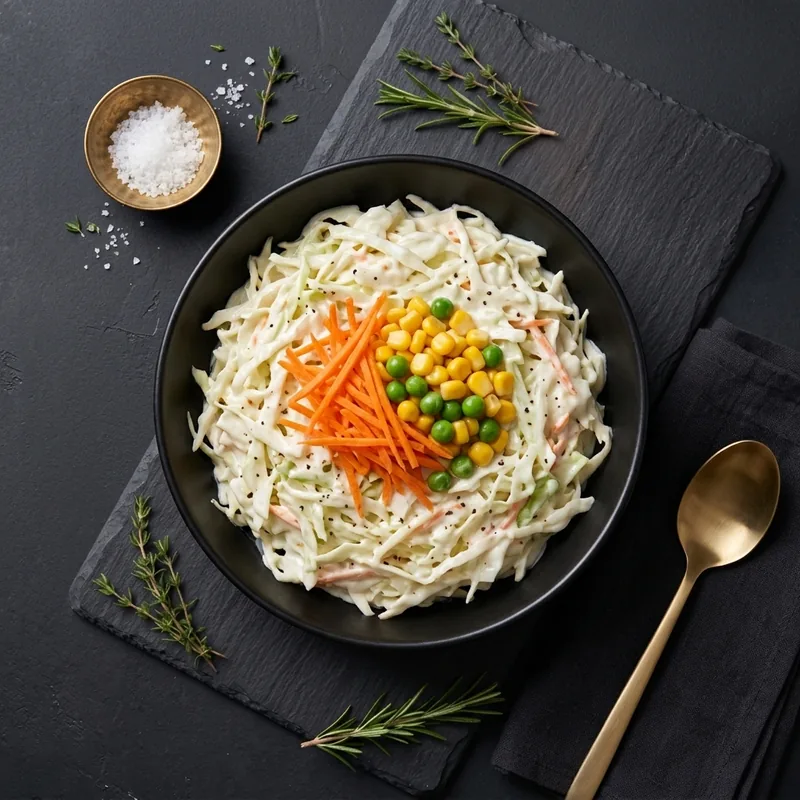
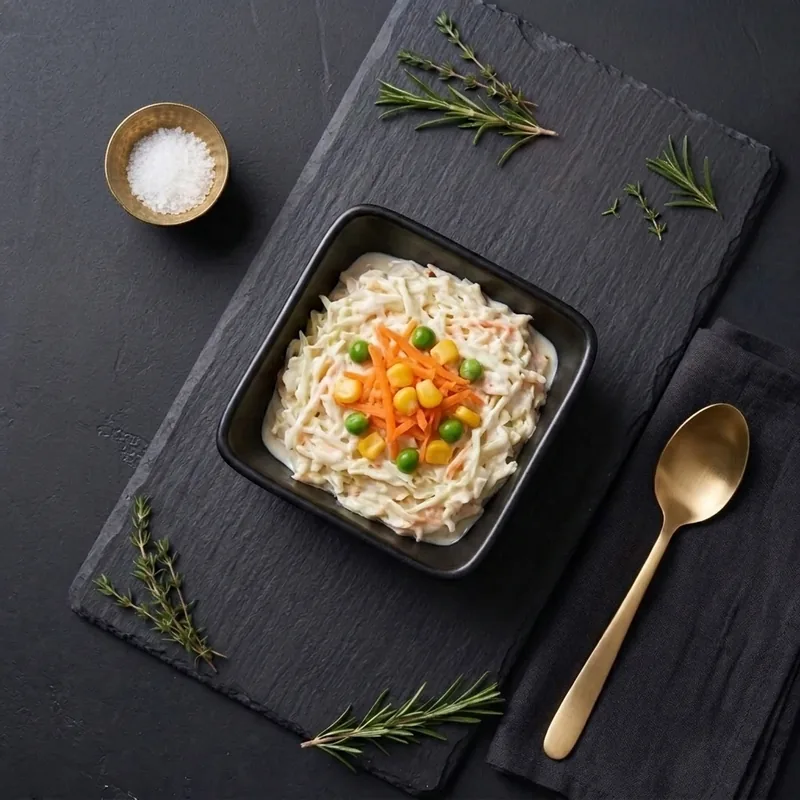
Update coleslaw photo to accurate small square side-dish portion

diff --git a/public/sw.js b/public/sw.js
@@ -1,4 +1,4 @@
-const CACHE_NAME = 'atish-menu-v26';
+const CACHE_NAME = 'atish-menu-v27';
 
 // Core shell assets to pre-cache immediately on install
 const PRECACHE_ASSETS = [
